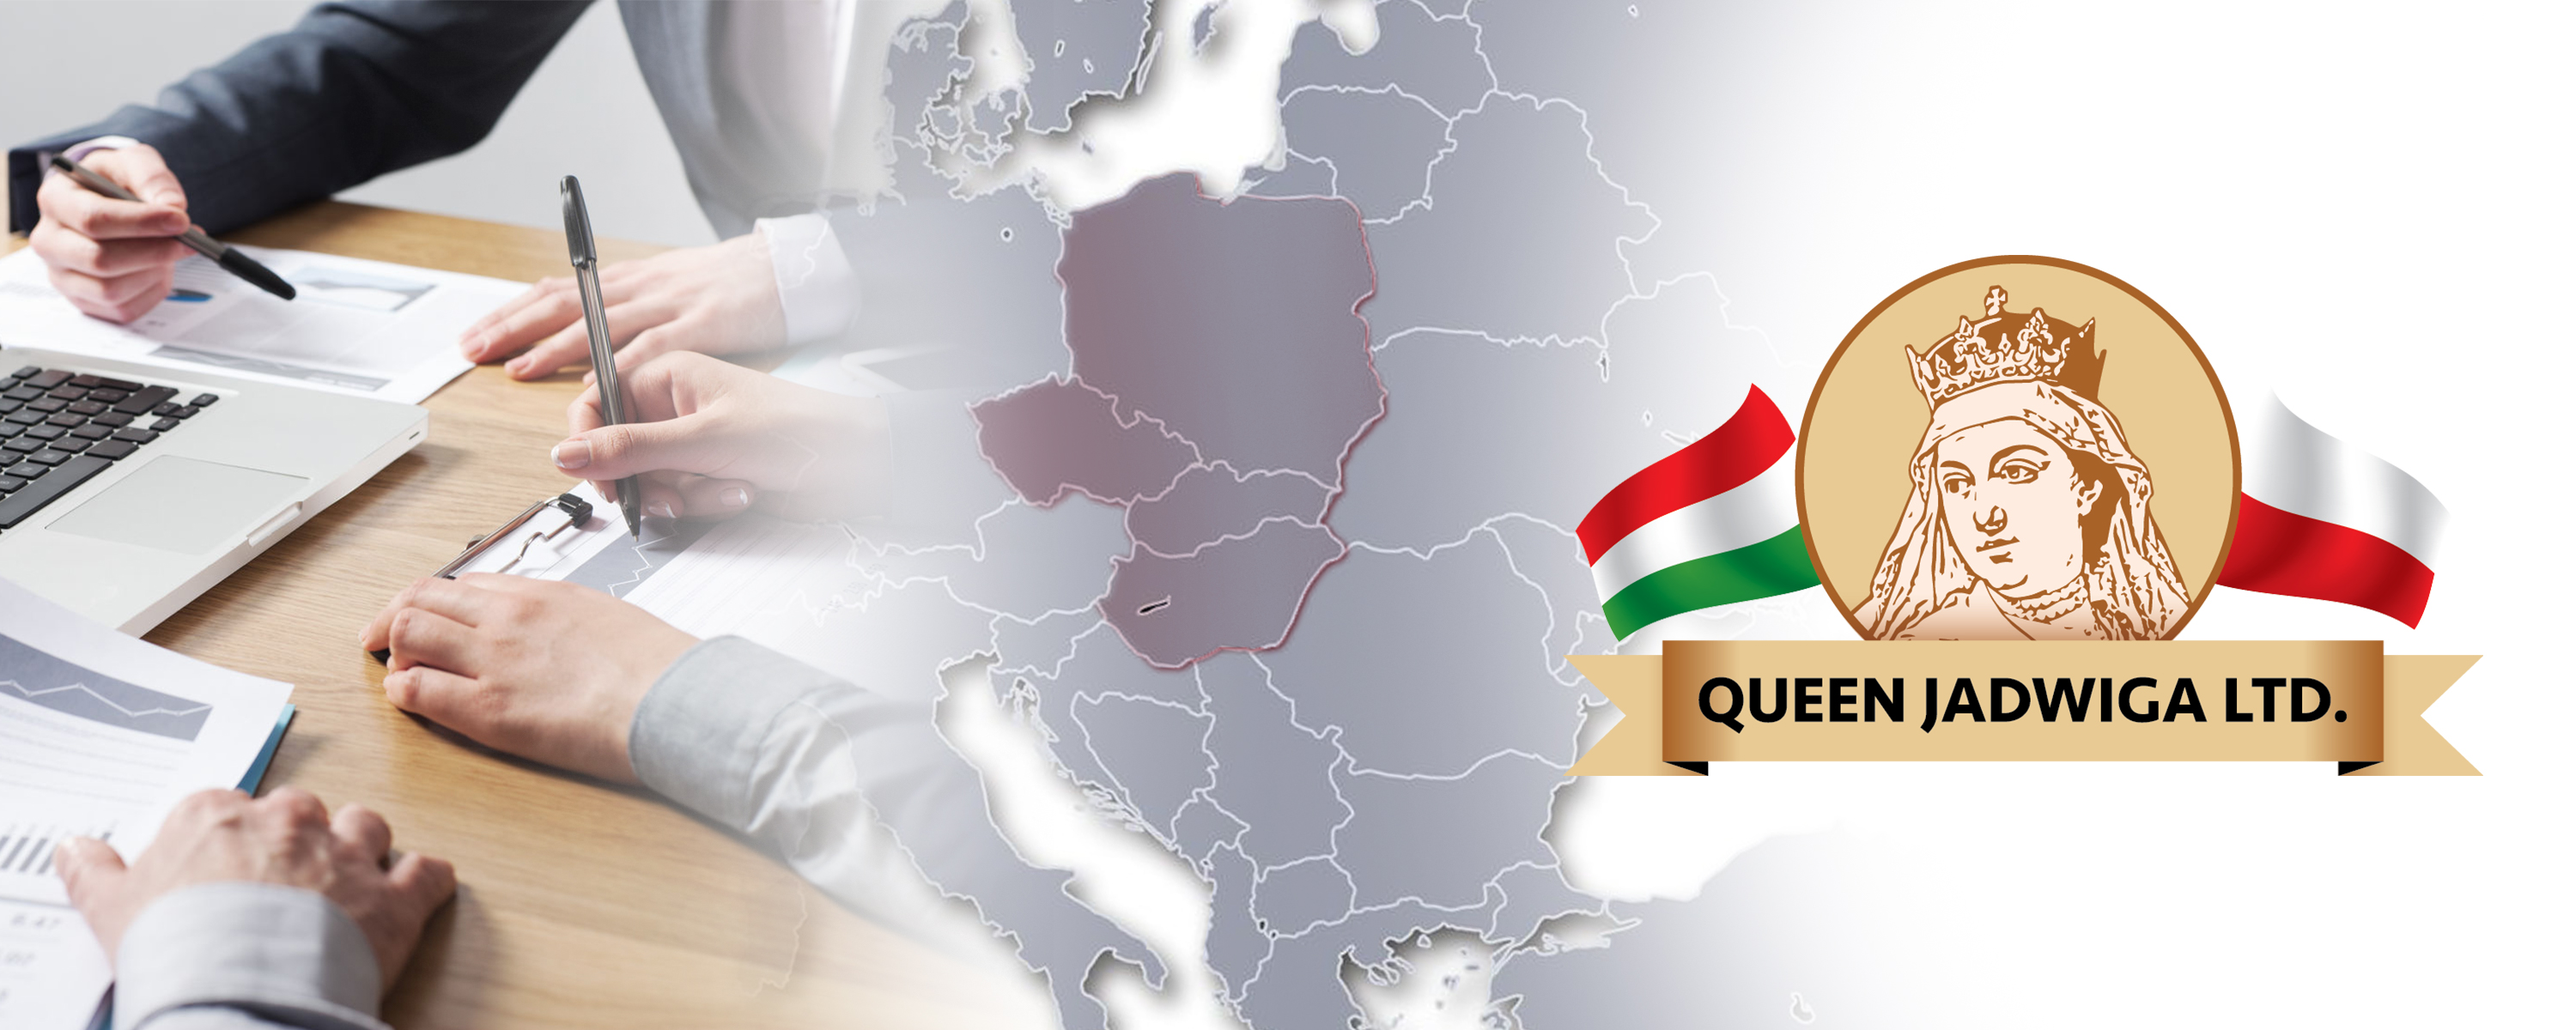
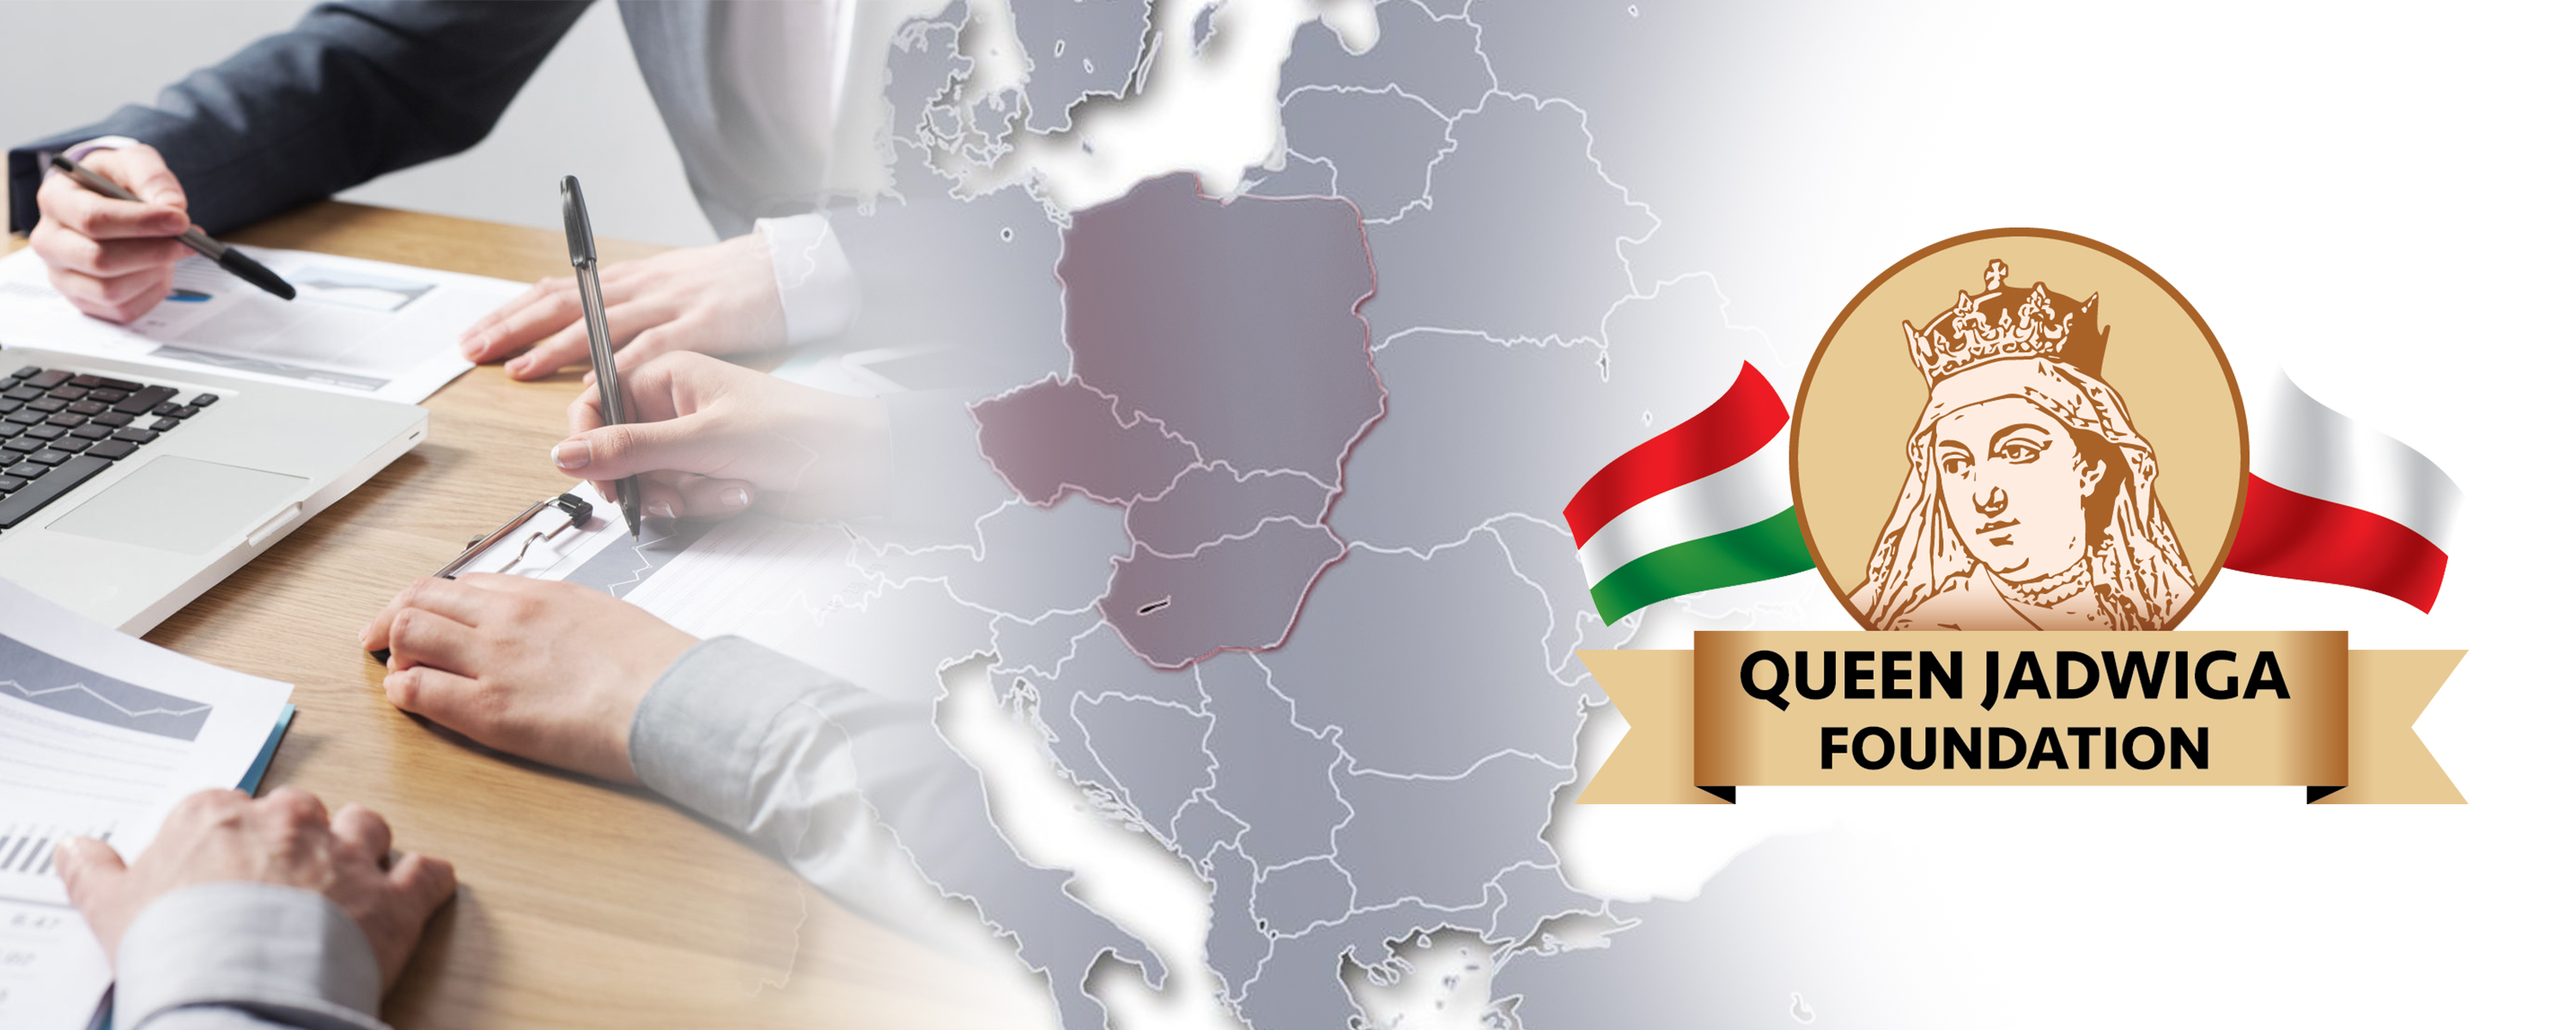
Added city pictures, new css file

Changed region(s): [[0.589, 0.2158, 0.961, 0.8017]]

diff --git a/index.html b/index.html
@@ -8,6 +8,7 @@
 	<title>Queen Jadwiga Alapítvány</title>
 	<link rel="icon" href="img/QJ_logo.png">
 	<link rel="stylesheet" href="style.css?v=1.3">
+	<link rel="stylesheet" href="imagebox.css">
 	<link
 		href="https://fonts.googleapis.com/css?family=Open+Sans:300,300i,400,400i,600,600i,700,700i,800,800i&amp;subset=latin-ext"
 		rel="stylesheet">
@@ -139,6 +140,24 @@
 					</a>
 				</div>
 		</section> <!-- About us end -->
+		<span class="row">
+			<span class="col-md-6 imagebox w-100">
+				<img src="img/warsaw.jpg" alt="Varsó" class="img-fluid">
+				<span class="imagebox-desc">Varsó</span>
+			</span>
+			<span class="col-md-6 imagebox">
+				<img src="img/budapest.jpg" alt="Budapest" class="img-fluid">
+				<span class="imagebox-desc">Budapest</span>
+			</span>
+			<span class="col-md-6 imagebox">
+				<img src="img/krakow.jpg" alt="Krakkó" class="img-fluid">
+				<span class="imagebox-desc">Krakkó</span>
+			</span>
+			<span class="col-md-6 imagebox">
+				<img src="img/eger.jpg" alt="Eger" class="img-fluid">
+				<span class="imagebox-desc">Eger</span>
+			</span>
+		</span>
 
 		<section class="container-fluid mt-5 mb-5" id="idezet">
 			<span class="row">
@@ -180,7 +199,7 @@
 					</span>
 				</span>
 				<span class="col-md-4 p-3 text-center">
-					<img src="img/QJ_logo.png" alt="" class="img-fluid w-50">
+					<img src="img/QJF_logo.png" alt="" class="img-fluid w-50">
 				</span>
 				<span class="col-md-4 kuratorium text-center">
 					<h3 class="mb-3">Kuratórium:</h3>

diff --git a/imagebox.css b/imagebox.css
@@ -1,0 +1,35 @@
+.imagebox {
+    padding: 10px;
+    position: relative;
+    text-align: center;
+    width: 100%;
+  }
+  
+  .imagebox img {
+      filter: brightness(1);
+      border-radius: 10px;
+
+  }
+  
+  .imagebox .imagebox-desc {
+    top: 50%;
+    left: 0px;
+    transform: translate(0%, -50%);
+    color: transparent;
+    font-size: 1.2em;
+    padding: 10px 15px;
+    position: absolute;
+    transition: 0.8s all;
+    text-align: center;
+    width: 100%;
+    font-size: 3em;
+  }
+  
+  .imagebox:hover img {
+      filter: brightness(0.6);
+
+  }
+  
+  .imagebox:hover .imagebox-desc {
+      color: #fff;
+  }
